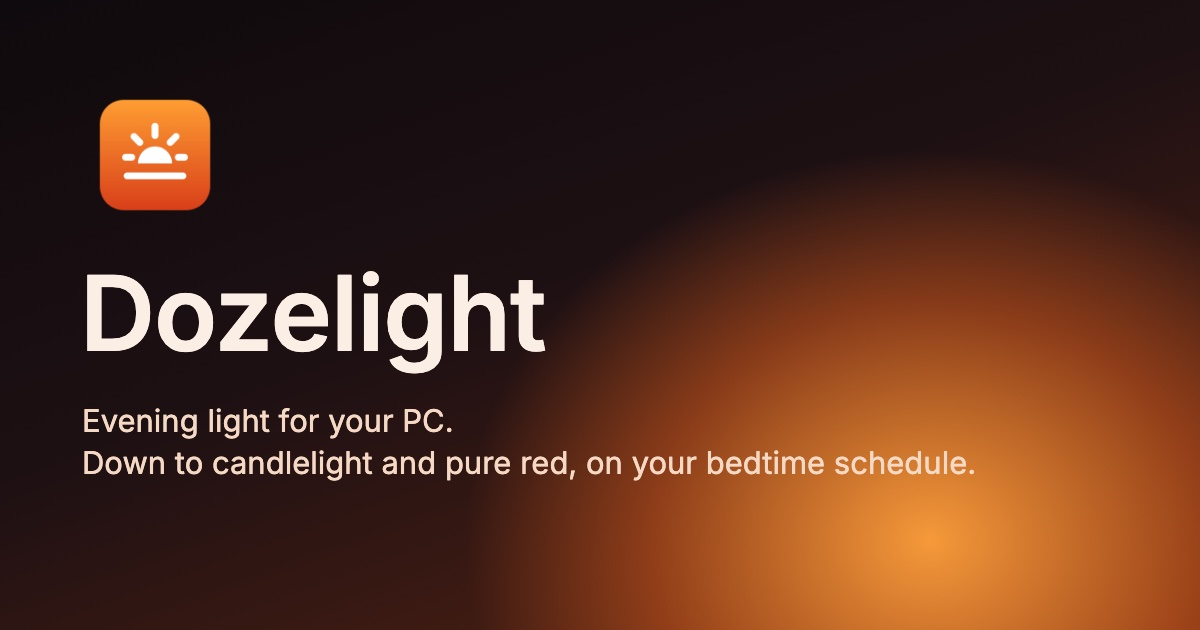
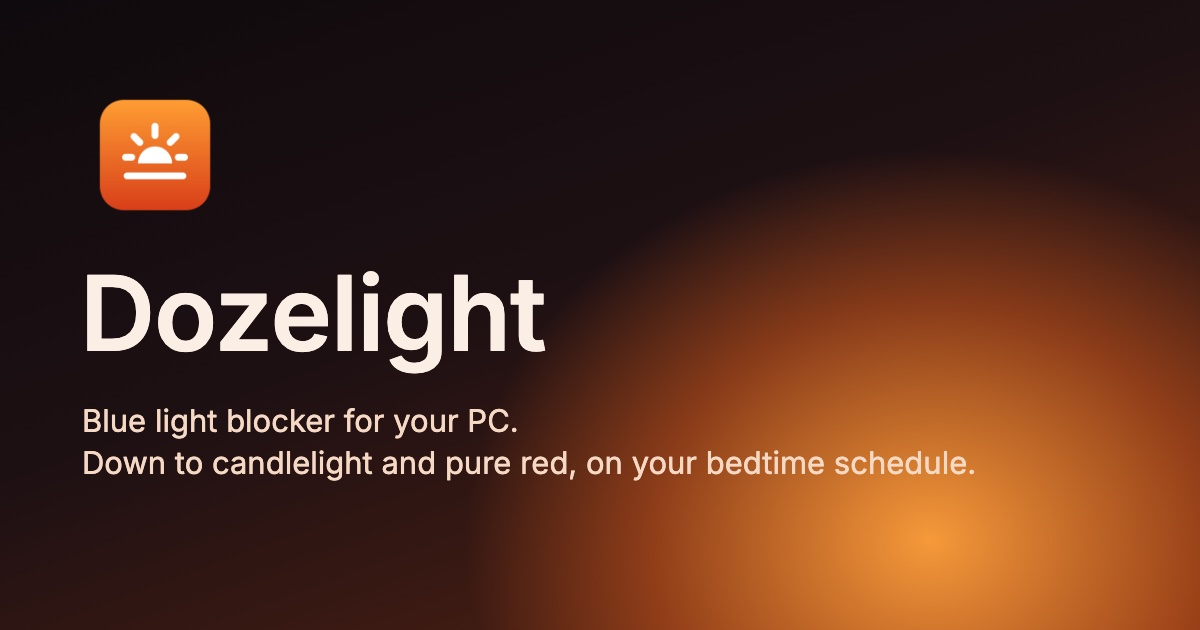
Position Dozelight as a blue light blocker

Changed region(s): [[0.0617, 0.6333, 0.4317, 0.6937]]

diff --git a/windows.html b/windows.html
@@ -3,11 +3,11 @@
 <head>
   <meta charset="utf-8">
   <meta name="viewport" content="width=device-width, initial-scale=1, viewport-fit=cover">
-  <title>Dozelight: blue light filter for Windows, warmer than Night Light</title>
-  <meta name="description" content="Dozelight is a blue light filter for Windows 10 and 11 that goes warmer than Night Light, down to candlelight and pure red, and follows your bedtime. Gentler evenings for your eyes and your sleep.">
+  <title>Dozelight: blue light blocker for Windows, warmer than Night Light</title>
+  <meta name="description" content="Dozelight is a blue light blocker for Windows 10 and 11. Night Light only reduces blue light, Dozelight blocks it completely, down to candlelight and pure red, and follows your bedtime. 14-day free trial.">
   <meta name="theme-color" content="#0d0a0b">
   <meta property="og:type" content="website">
-  <meta property="og:title" content="Dozelight: blue light filter for Windows, warmer than Night Light">
+  <meta property="og:title" content="Dozelight: blue light blocker for Windows, warmer than Night Light">
   <meta property="og:description" content="Down to candlelight and pure red, right from the taskbar. A tiny app for Windows 10 and 11, with a 14-day free trial.">
   <meta property="og:image" content="https://dozelight.github.io/assets/og-windows.jpg">
   <meta property="og:url" content="https://dozelight.github.io/windows.html">
@@ -18,8 +18,8 @@
   <link rel="stylesheet" href="style.css">
   <script src="platform.js" defer></script>
   <link rel="canonical" href="https://dozelight.github.io/windows.html">
-  <script type="application/ld+json">{"@context": "https://schema.org", "@type": "SoftwareApplication", "name": "Dozelight for Windows", "operatingSystem": "Windows 10, Windows 11", "applicationCategory": "UtilitiesApplication", "description": "Dozelight takes your Windows screen down to candlelight and pure red, warmer than Night Light, right from the taskbar. 14-day free trial.", "url": "https://dozelight.github.io/windows.html", "downloadUrl": "https://dozelight.github.io/download/Dozelight-Windows.zip", "image": "https://dozelight.github.io/assets/windows-icon.png", "offers": {"@type": "Offer", "price": "9.99", "priceCurrency": "USD", "url": "https://buy.polar.sh/polar_cl_vW1CZe0jYEofC1ECHEfeNki5Oq9OQqqWhFMfx1OUVyL"}, "publisher": {"@type": "Organization", "name": "Dozelight", "url": "https://dozelight.github.io/"}}</script>
-  <script type="application/ld+json">{"@context": "https://schema.org", "@type": "FAQPage", "mainEntity": [{"@type": "Question", "name": "How much does it cost?", "acceptedAnswer": {"@type": "Answer", "text": "$9.99, once. That's the early-access price, and it rises to $14.99 when early access ends. You can try every feature free for 14 days first."}}, {"@type": "Question", "name": "Can I use one license on my PC and my Mac?", "acceptedAnswer": {"@type": "Answer", "text": "Yes. One license works on up to 3 computers in total, Windows or Mac, so you can use it on your PC and your MacBook with the same key."}}, {"@type": "Question", "name": "What happens when the trial ends?", "acceptedAnswer": {"@type": "Answer", "text": "The tint pauses until you enter a license key. Your settings stay as they are, so everything comes back the moment you activate."}}, {"@type": "Question", "name": "Does it replace Night Light?", "acceptedAnswer": {"@type": "Answer", "text": "Yes. Dozelight goes much further than Night Light, with warmer settings, red only, a gradual bedtime schedule and filters. Turn Night Light off so the two don't compete. See Night Shift vs Night Light vs f.lux vs Dozelight and how to make your screen red at night on Windows."}}, {"@type": "Question", "name": "What are Darkroom and Extra Dim?", "acceptedAnswer": {"@type": "Answer", "text": "Darkroom inverts the screen and keeps only red, so pages turn black with red text: the gentlest way to read late at night. Extra Dim makes the screen darker than the lowest brightness setting. Both are in Filters, next to Black & White, Sepia, Invert Colors and High Contrast, and they work at any time of day."}}, {"@type": "Question", "name": "Which PCs does it run on?", "acceptedAnswer": {"@type": "Answer", "text": "Any PC with 64-bit Windows 10 or Windows 11. It also runs on Windows 11 laptops with Arm processors, through Windows' built-in emulation."}}, {"@type": "Question", "name": "Why does Windows warn me when I first open it?", "acceptedAnswer": {"@type": "Answer", "text": "Dozelight isn't signed yet, so Microsoft Defender SmartScreen asks you to confirm once. Click More info, then Run anyway. The installation guide shows each step."}}, {"@type": "Question", "name": "Why do the warmest colors need unlocking?", "acceptedAnswer": {"@type": "Answer", "text": "Windows limits how far apps can change the screen's colors. Dozelight can lift that limit once, with an administrator's approval, by setting the same Windows option other screen-tint apps use. You may need to restart Windows once afterwards."}}, {"@type": "Question", "name": "The screen doesn't change color. What can I do?", "acceptedAnswer": {"@type": "Answer", "text": "With HDR turned on, Windows ignores color changes from apps, so turn HDR off in Settings → System → Display. If you use Night Light, try turning it off so the two don't compete. Remote Desktop and virtual machines usually don't allow color changes either."}}, {"@type": "Question", "name": "Do screenshots look red?", "acceptedAnswer": {"@type": "Answer", "text": "No. The tint is applied on the way to the display, so screenshots, recordings and screen sharing keep their true colors."}}, {"@type": "Question", "name": "Does it collect any data?", "acceptedAnswer": {"@type": "Answer", "text": "No. Dozelight has no analytics or tracking. It goes online only to activate and occasionally check your license key, sending just the key and your PC's name to Polar, which runs our store, and once a day to look for updates. Dusk and dawn are estimated from your time zone, so it doesn't need your location either."}}, {"@type": "Question", "name": "Will Dozelight help me sleep better?", "acceptedAnswer": {"@type": "Answer", "text": "It takes away one thing that can push sleep later: bright, blue-rich screen light in the evening. Auto mode warms the screen gradually and keeps only red light after bedtime. Regular sleep times, winding down and a dark bedroom matter at least as much, so see our guide to screens, blue light and better sleep. Dozelight is a comfort tool, not a medical product."}}, {"@type": "Question", "name": "Is it a medical product?", "acceptedAnswer": {"@type": "Answer", "text": "No. Dozelight is a comfort tool for using your computer in the evening. It doesn't diagnose, treat or prevent any condition."}}, {"@type": "Question", "name": "How do I uninstall it?", "acceptedAnswer": {"@type": "Answer", "text": "Open the Dozelight panel, turn off Open at Login and click Quit Dozelight. Your screen goes back to normal right away. Then delete Dozelight.exe."}}, {"@type": "Question", "name": "How do I move my license to a new PC?", "acceptedAnswer": {"@type": "Answer", "text": "Open License… in the Dozelight panel on the old PC and click Deactivate This PC. You can also manage your computers in the Polar customer portal linked in your receipt."}}, {"@type": "Question", "name": "How do updates work?", "acceptedAnswer": {"@type": "Answer", "text": "Dozelight checks for a new version once a day. When there is one, it shows in the panel and installs with one click. You can also choose Settings → Check for Updates in the panel at any time. Your settings and license stay."}}, {"@type": "Question", "name": "Can I get a refund?", "acceptedAnswer": {"@type": "Answer", "text": "Yes. If Dozelight isn't right for you, email us within 14 days of your purchase for a full refund. See the refund policy."}}, {"@type": "Question", "name": "Is there an iPhone or iPad version?", "acceptedAnswer": {"@type": "Answer", "text": "iPhone and iPad don't allow apps to tint the whole screen. But they have built-in settings that come close: see our free guide to a red screen at night on iPhone and iPad."}}]}</script>
+  <script type="application/ld+json">{"@context": "https://schema.org", "@type": "SoftwareApplication", "name": "Dozelight for Windows", "operatingSystem": "Windows 10, Windows 11", "applicationCategory": "UtilitiesApplication", "description": "Dozelight is a blue light blocker for Windows 10 and 11. Night Light only reduces blue light, Dozelight blocks it completely, down to candlelight and pure red, right from the taskbar. 14-day free trial.", "url": "https://dozelight.github.io/windows.html", "downloadUrl": "https://dozelight.github.io/download/Dozelight-Windows.zip", "image": "https://dozelight.github.io/assets/windows-icon.png", "offers": {"@type": "Offer", "price": "9.99", "priceCurrency": "USD", "url": "https://buy.polar.sh/polar_cl_vW1CZe0jYEofC1ECHEfeNki5Oq9OQqqWhFMfx1OUVyL"}, "publisher": {"@type": "Organization", "name": "Dozelight", "url": "https://dozelight.github.io/"}}</script>
+  <script type="application/ld+json">{"@context": "https://schema.org", "@type": "FAQPage", "mainEntity": [{"@type": "Question", "name": "How much does it cost?", "acceptedAnswer": {"@type": "Answer", "text": "$9.99, once. That's the early-access price, and it rises to $14.99 when early access ends. You can try every feature free for 14 days first."}}, {"@type": "Question", "name": "Can I use one license on my PC and my Mac?", "acceptedAnswer": {"@type": "Answer", "text": "Yes. One license works on up to 3 computers in total, Windows or Mac, so you can use it on your PC and your MacBook with the same key."}}, {"@type": "Question", "name": "What happens when the trial ends?", "acceptedAnswer": {"@type": "Answer", "text": "The tint pauses until you enter a license key. Your settings stay as they are, so everything comes back the moment you activate."}}, {"@type": "Question", "name": "Does it replace Night Light?", "acceptedAnswer": {"@type": "Answer", "text": "Yes. Dozelight goes much further than Night Light, with warmer settings, red only, a gradual bedtime schedule and filters. Turn Night Light off so the two don't compete. See Night Shift vs Night Light vs f.lux vs Dozelight and how to make your screen red at night on Windows."}}, {"@type": "Question", "name": "What are Darkroom and Extra Dim?", "acceptedAnswer": {"@type": "Answer", "text": "Darkroom inverts the screen and keeps only red, so pages turn black with red text: the gentlest way to read late at night. Extra Dim makes the screen darker than the lowest brightness setting. Both are in Filters, next to Black & White, Sepia, Invert Colors and High Contrast, and they work at any time of day."}}, {"@type": "Question", "name": "Which PCs does it run on?", "acceptedAnswer": {"@type": "Answer", "text": "Any PC with 64-bit Windows 10 or Windows 11. It also runs on Windows 11 laptops with Arm processors, through Windows' built-in emulation."}}, {"@type": "Question", "name": "Why does Windows warn me when I first open it?", "acceptedAnswer": {"@type": "Answer", "text": "Dozelight isn't signed yet, so Microsoft Defender SmartScreen asks you to confirm once. Click More info, then Run anyway. The installation guide shows each step."}}, {"@type": "Question", "name": "Why do the warmest colors need unlocking?", "acceptedAnswer": {"@type": "Answer", "text": "Windows limits how far apps can change the screen's colors. Dozelight can lift that limit once, with an administrator's approval, by setting the same Windows option other screen-tint apps use. You may need to restart Windows once afterwards."}}, {"@type": "Question", "name": "The screen doesn't change color. What can I do?", "acceptedAnswer": {"@type": "Answer", "text": "With HDR turned on, Windows ignores color changes from apps, so turn HDR off in Settings → System → Display. If you use Night Light, try turning it off so the two don't compete. Remote Desktop and virtual machines usually don't allow color changes either."}}, {"@type": "Question", "name": "Do screenshots look red?", "acceptedAnswer": {"@type": "Answer", "text": "No. The tint is applied on the way to the display, so screenshots, recordings and screen sharing keep their true colors."}}, {"@type": "Question", "name": "Does it collect any data?", "acceptedAnswer": {"@type": "Answer", "text": "No. Dozelight has no analytics or tracking. It goes online only to activate and occasionally check your license key, sending just the key and your PC's name to Polar, which runs our store, and once a day to look for updates. Dusk and dawn are estimated from your time zone, so it doesn't need your location either."}}, {"@type": "Question", "name": "Does Dozelight block blue light completely?", "acceptedAnswer": {"@type": "Answer", "text": "Yes. At 1900K and warmer, and in Red Only, Dozelight switches the screen's blue light off completely. Milder settings reduce it, like a stronger Night Shift. Auto mode reaches 1900K at your bedtime and keeps only red light through the night."}}, {"@type": "Question", "name": "Will Dozelight help me sleep better?", "acceptedAnswer": {"@type": "Answer", "text": "It takes away one thing that can push sleep later: bright, blue-rich screen light in the evening. Auto mode warms the screen gradually and keeps only red light after bedtime. Regular sleep times, winding down and a dark bedroom matter at least as much, so see our guide to screens, blue light and better sleep. Dozelight is a comfort tool, not a medical product."}}, {"@type": "Question", "name": "Is it a medical product?", "acceptedAnswer": {"@type": "Answer", "text": "No. Dozelight is a comfort tool for using your computer in the evening. It doesn't diagnose, treat or prevent any condition."}}, {"@type": "Question", "name": "How do I uninstall it?", "acceptedAnswer": {"@type": "Answer", "text": "Open the Dozelight panel, turn off Open at Login and click Quit Dozelight. Your screen goes back to normal right away. Then delete Dozelight.exe."}}, {"@type": "Question", "name": "How do I move my license to a new PC?", "acceptedAnswer": {"@type": "Answer", "text": "Open License… in the Dozelight panel on the old PC and click Deactivate This PC. You can also manage your computers in the Polar customer portal linked in your receipt."}}, {"@type": "Question", "name": "How do updates work?", "acceptedAnswer": {"@type": "Answer", "text": "Dozelight checks for a new version once a day. When there is one, it shows in the panel and installs with one click. You can also choose Settings → Check for Updates in the panel at any time. Your settings and license stay."}}, {"@type": "Question", "name": "Can I get a refund?", "acceptedAnswer": {"@type": "Answer", "text": "Yes. If Dozelight isn't right for you, email us within 14 days of your purchase for a full refund. See the refund policy."}}, {"@type": "Question", "name": "Is there an iPhone or iPad version?", "acceptedAnswer": {"@type": "Answer", "text": "iPhone and iPad don't allow apps to tint the whole screen. But they have built-in settings that come close: see our free guide to a red screen at night on iPhone and iPad."}}]}</script>
 </head>
 <body>
   <div class="sky" aria-hidden="true"></div>
@@ -48,11 +48,11 @@
     <!-- Hero -->
     <section class="hero">
       <div class="hero-copy">
-        <p class="eyebrow"><span class="dot"></span> Early access for Windows</p>
-        <h1>Evening light<br><em>for your PC.</em></h1>
+        <p class="eyebrow"><span class="dot"></span> Blue light blocker for Windows</p>
+        <h1>Block blue light<br><em>on your PC.</em></h1>
         <p class="lede">
-          Dozelight takes your screen down to candlelight and pure red, right from the taskbar,
-          and follows your bedtime so your screen winds down with you.
+          Night Light only reduces blue light. Dozelight blocks it completely, down to candlelight
+          and pure red, right from the taskbar, and follows your bedtime so your screen winds down with you.
         </p>
         <div class="hero-actions">
           <a class="button" href="download/Dozelight-Windows.zip" download>Download free trial</a>
@@ -61,7 +61,7 @@
         <p class="hero-note">14-day free trial with every feature · Windows 10 and 11 · 64-bit</p>
         <ul class="hero-facts" aria-label="Highlights">
           <li><strong>1000K</strong><span>warmest setting</span></li>
-          <li><strong>Red only</strong><span>zero blue light</span></li>
+          <li><strong>100%</strong><span>blue light blocked</span></li>
           <li><strong>208 KB</strong><span>the whole app</span></li>
         </ul>
       </div>
@@ -332,6 +332,10 @@
       <details>
         <summary>Does it collect any data?</summary>
         <p>No. Dozelight has no analytics or tracking. It goes online only to activate and occasionally check your license key, sending just the key and your PC's name to Polar, which runs our store, and once a day to look for updates. Dusk and dawn are estimated from your time zone, so it doesn't need your location either.</p>
+      </details>
+      <details>
+        <summary>Does Dozelight block blue light completely?</summary>
+        <p>Yes. At 1900K and warmer, and in Red Only, Dozelight switches the screen's blue light off completely. Milder settings reduce it, like a stronger Night Shift. Auto mode reaches 1900K at your bedtime and keeps only red light through the night.</p>
       </details>
       <details>
         <summary>Will Dozelight help me sleep better?</summary>

diff --git a/index.html b/index.html
@@ -3,11 +3,11 @@
 <head>
   <meta charset="utf-8">
   <meta name="viewport" content="width=device-width, initial-scale=1, viewport-fit=cover">
-  <title>Dozelight: blue light filter for Mac, warmer than Night Shift</title>
-  <meta name="description" content="Dozelight is a blue light filter for Mac that goes warmer than Night Shift, down to candlelight and pure red, on your bedtime schedule. Gentler evenings for your eyes and your sleep.">
+  <title>Dozelight: blue light blocker for Mac, warmer than Night Shift</title>
+  <meta name="description" content="Dozelight is a blue light blocker for Mac. Night Shift only reduces blue light, Dozelight blocks it completely, down to candlelight and pure red, on your bedtime schedule. 14-day free trial.">
   <meta name="theme-color" content="#0d0a0b">
   <meta property="og:type" content="website">
-  <meta property="og:title" content="Dozelight: blue light filter for Mac, warmer than Night Shift">
+  <meta property="og:title" content="Dozelight: blue light blocker for Mac, warmer than Night Shift">
   <meta property="og:description" content="Down to candlelight and pure red, on your bedtime schedule. A tiny menu bar app for macOS, with a 14-day free trial.">
   <meta property="og:image" content="https://dozelight.github.io/assets/og.jpg">
   <meta property="og:url" content="https://dozelight.github.io/">
@@ -30,8 +30,8 @@
   <meta name="google-site-verification" content="awgSpBVwiy73n4SWK_MEB2o4UoAEffG2brTuxusj59I">
   <meta name="msvalidate.01" content="475B252E7EF599B6CED038FA5DAF3CCC">
   <link rel="canonical" href="https://dozelight.github.io/">
-  <script type="application/ld+json">{"@context": "https://schema.org", "@type": "SoftwareApplication", "name": "Dozelight", "operatingSystem": "macOS 13 or later", "applicationCategory": "UtilitiesApplication", "description": "Dozelight is a Mac menu bar app that takes your screen warmer than Night Shift allows, down to candlelight and pure red, and follows your bedtime. 14-day free trial.", "url": "https://dozelight.github.io/", "downloadUrl": "https://dozelight.github.io/download/Dozelight.dmg", "image": "https://dozelight.github.io/assets/icon.png", "offers": {"@type": "Offer", "price": "9.99", "priceCurrency": "USD", "url": "https://buy.polar.sh/polar_cl_vW1CZe0jYEofC1ECHEfeNki5Oq9OQqqWhFMfx1OUVyL"}, "publisher": {"@type": "Organization", "name": "Dozelight", "url": "https://dozelight.github.io/"}}</script>
-  <script type="application/ld+json">{"@context": "https://schema.org", "@type": "FAQPage", "mainEntity": [{"@type": "Question", "name": "Is there an iPhone or iPad version?", "acceptedAnswer": {"@type": "Answer", "text": "iPhone and iPad don't allow apps to tint the whole screen, so there's no Dozelight for them. But they have built-in settings that come close: see our free guide to a red screen at night on iPhone and iPad."}}, {"@type": "Question", "name": "Which Macs does it run on?", "acceptedAnswer": {"@type": "Answer", "text": "Any Mac with macOS 13 Ventura or later, Apple silicon or Intel. Touch Bar tinting works on Apple silicon MacBook Pros with a Touch Bar."}}, {"@type": "Question", "name": "Does it replace Night Shift?", "acceptedAnswer": {"@type": "Answer", "text": "It works together with it. Keep Night Shift on its usual schedule and Dozelight adds warmth on top of it. In Auto mode Dozelight follows your own bedtime, even when Night Shift is off."}}, {"@type": "Question", "name": "What are Darkroom and Extra Dim?", "acceptedAnswer": {"@type": "Answer", "text": "Darkroom inverts the screen and keeps only red, so pages turn black with red text: the gentlest way to read late at night. Extra Dim makes the screen darker than the lowest brightness setting. Both are in the Filters menu, next to Black & White, Sepia, Invert Colors and High Contrast, and they work at any time of day."}}, {"@type": "Question", "name": "Will it slow down my Mac?", "acceptedAnswer": {"@type": "Answer", "text": "No. Dozelight only does work when something changes, like Night Shift turning on or you moving a slider. When idle it uses no measurable CPU."}}, {"@type": "Question", "name": "Do screenshots and screen recordings look red?", "acceptedAnswer": {"@type": "Answer", "text": "No. The tint is applied by the display itself, so screenshots, recordings and screen sharing keep their true colors."}}, {"@type": "Question", "name": "Does it collect any data?", "acceptedAnswer": {"@type": "Answer", "text": "No. Dozelight has no analytics or tracking. It goes online only to activate and occasionally check your license key, sending just the key and your Mac's name, and once a day to look for updates. Dusk and dawn are estimated from your time zone, so it doesn't need your location either."}}, {"@type": "Question", "name": "Will Dozelight help me sleep better?", "acceptedAnswer": {"@type": "Answer", "text": "It takes away one thing that can push sleep later: bright, blue-rich screen light in the evening. Auto mode warms the screen gradually and keeps only red light after bedtime. Regular sleep times, winding down and a dark bedroom matter at least as much, so see our guide to screens, blue light and better sleep. Dozelight is a comfort tool, not a medical product."}}, {"@type": "Question", "name": "Is it a medical product?", "acceptedAnswer": {"@type": "Answer", "text": "No. Dozelight is a comfort tool for using your Mac in the evening. It doesn't diagnose, treat or prevent any condition."}}, {"@type": "Question", "name": "How much does it cost?", "acceptedAnswer": {"@type": "Answer", "text": "$9.99, once. That's the early-access price, and it rises to $14.99 when early access ends. You can try every feature free for 14 days first, and one license covers up to 3 computers, Mac or Windows."}}, {"@type": "Question", "name": "What does early access mean?", "acceptedAnswer": {"@type": "Answer", "text": "Dozelight is complete and ready for everyday use, and new features are on the way. During early access it costs less, and the people using it help decide what comes next. It also isn't notarized by Apple yet, so macOS asks you to confirm the first time you open it. Your license keeps working after early access ends, and updates keep coming automatically."}}, {"@type": "Question", "name": "What happens when the trial ends?", "acceptedAnswer": {"@type": "Answer", "text": "The tint pauses until you enter a license key. Your settings stay as they are, so everything comes back the moment you activate."}}, {"@type": "Question", "name": "How do updates work?", "acceptedAnswer": {"@type": "Answer", "text": "Dozelight checks for a new version once a day. When there is one, it shows what's new and installs it with one click. You can also choose Settings → Check for Updates… in its menu at any time."}}, {"@type": "Question", "name": "How do I move my license to a new Mac?", "acceptedAnswer": {"@type": "Answer", "text": "Open License… in Dozelight's menu on the old Mac and click Deactivate This Mac. You can also manage your Macs in the Polar customer portal linked in your receipt."}}, {"@type": "Question", "name": "Can I get a refund?", "acceptedAnswer": {"@type": "Answer", "text": "Yes. If Dozelight isn't right for you, email us within 14 days of your purchase for a full refund. See the refund policy."}}, {"@type": "Question", "name": "Why does macOS warn me when I first open it?", "acceptedAnswer": {"@type": "Answer", "text": "Dozelight isn't notarized by Apple yet, so macOS asks you to confirm once. Follow the install steps above. Future versions will be notarized."}}]}</script>
+  <script type="application/ld+json">{"@context": "https://schema.org", "@type": "SoftwareApplication", "name": "Dozelight", "operatingSystem": "macOS 13 or later", "applicationCategory": "UtilitiesApplication", "description": "Dozelight is a blue light blocker for Mac. Night Shift only reduces blue light, Dozelight blocks it completely, down to candlelight and pure red, and follows your bedtime. 14-day free trial.", "url": "https://dozelight.github.io/", "downloadUrl": "https://dozelight.github.io/download/Dozelight.dmg", "image": "https://dozelight.github.io/assets/icon.png", "offers": {"@type": "Offer", "price": "9.99", "priceCurrency": "USD", "url": "https://buy.polar.sh/polar_cl_vW1CZe0jYEofC1ECHEfeNki5Oq9OQqqWhFMfx1OUVyL"}, "publisher": {"@type": "Organization", "name": "Dozelight", "url": "https://dozelight.github.io/"}}</script>
+  <script type="application/ld+json">{"@context": "https://schema.org", "@type": "FAQPage", "mainEntity": [{"@type": "Question", "name": "Is there an iPhone or iPad version?", "acceptedAnswer": {"@type": "Answer", "text": "iPhone and iPad don't allow apps to tint the whole screen, so there's no Dozelight for them. But they have built-in settings that come close: see our free guide to a red screen at night on iPhone and iPad."}}, {"@type": "Question", "name": "Which Macs does it run on?", "acceptedAnswer": {"@type": "Answer", "text": "Any Mac with macOS 13 Ventura or later, Apple silicon or Intel. Touch Bar tinting works on Apple silicon MacBook Pros with a Touch Bar."}}, {"@type": "Question", "name": "Does it replace Night Shift?", "acceptedAnswer": {"@type": "Answer", "text": "It works together with it. Keep Night Shift on its usual schedule and Dozelight adds warmth on top of it. In Auto mode Dozelight follows your own bedtime, even when Night Shift is off."}}, {"@type": "Question", "name": "What are Darkroom and Extra Dim?", "acceptedAnswer": {"@type": "Answer", "text": "Darkroom inverts the screen and keeps only red, so pages turn black with red text: the gentlest way to read late at night. Extra Dim makes the screen darker than the lowest brightness setting. Both are in the Filters menu, next to Black & White, Sepia, Invert Colors and High Contrast, and they work at any time of day."}}, {"@type": "Question", "name": "Will it slow down my Mac?", "acceptedAnswer": {"@type": "Answer", "text": "No. Dozelight only does work when something changes, like Night Shift turning on or you moving a slider. When idle it uses no measurable CPU."}}, {"@type": "Question", "name": "Do screenshots and screen recordings look red?", "acceptedAnswer": {"@type": "Answer", "text": "No. The tint is applied by the display itself, so screenshots, recordings and screen sharing keep their true colors."}}, {"@type": "Question", "name": "Does it collect any data?", "acceptedAnswer": {"@type": "Answer", "text": "No. Dozelight has no analytics or tracking. It goes online only to activate and occasionally check your license key, sending just the key and your Mac's name, and once a day to look for updates. Dusk and dawn are estimated from your time zone, so it doesn't need your location either."}}, {"@type": "Question", "name": "Does Dozelight block blue light completely?", "acceptedAnswer": {"@type": "Answer", "text": "Yes. At 1900K and warmer, and in Red Only, Dozelight switches the screen's blue light off completely. Milder settings reduce it, like a stronger Night Shift. Auto mode reaches 1900K at your bedtime and keeps only red light through the night."}}, {"@type": "Question", "name": "Will Dozelight help me sleep better?", "acceptedAnswer": {"@type": "Answer", "text": "It takes away one thing that can push sleep later: bright, blue-rich screen light in the evening. Auto mode warms the screen gradually and keeps only red light after bedtime. Regular sleep times, winding down and a dark bedroom matter at least as much, so see our guide to screens, blue light and better sleep. Dozelight is a comfort tool, not a medical product."}}, {"@type": "Question", "name": "Is it a medical product?", "acceptedAnswer": {"@type": "Answer", "text": "No. Dozelight is a comfort tool for using your Mac in the evening. It doesn't diagnose, treat or prevent any condition."}}, {"@type": "Question", "name": "How much does it cost?", "acceptedAnswer": {"@type": "Answer", "text": "$9.99, once. That's the early-access price, and it rises to $14.99 when early access ends. You can try every feature free for 14 days first, and one license covers up to 3 computers, Mac or Windows."}}, {"@type": "Question", "name": "What does early access mean?", "acceptedAnswer": {"@type": "Answer", "text": "Dozelight is complete and ready for everyday use, and new features are on the way. During early access it costs less, and the people using it help decide what comes next. It also isn't notarized by Apple yet, so macOS asks you to confirm the first time you open it. Your license keeps working after early access ends, and updates keep coming automatically."}}, {"@type": "Question", "name": "What happens when the trial ends?", "acceptedAnswer": {"@type": "Answer", "text": "The tint pauses until you enter a license key. Your settings stay as they are, so everything comes back the moment you activate."}}, {"@type": "Question", "name": "How do updates work?", "acceptedAnswer": {"@type": "Answer", "text": "Dozelight checks for a new version once a day. When there is one, it shows what's new and installs it with one click. You can also choose Settings → Check for Updates… in its menu at any time."}}, {"@type": "Question", "name": "How do I move my license to a new Mac?", "acceptedAnswer": {"@type": "Answer", "text": "Open License… in Dozelight's menu on the old Mac and click Deactivate This Mac. You can also manage your Macs in the Polar customer portal linked in your receipt."}}, {"@type": "Question", "name": "Can I get a refund?", "acceptedAnswer": {"@type": "Answer", "text": "Yes. If Dozelight isn't right for you, email us within 14 days of your purchase for a full refund. See the refund policy."}}, {"@type": "Question", "name": "Why does macOS warn me when I first open it?", "acceptedAnswer": {"@type": "Answer", "text": "Dozelight isn't notarized by Apple yet, so macOS asks you to confirm once. Follow the install steps above. Future versions will be notarized."}}]}</script>
 </head>
 <body>
   <div class="sky" aria-hidden="true"></div>
@@ -60,11 +60,11 @@
     <!-- Hero -->
     <section class="hero">
       <div class="hero-copy">
-        <p class="eyebrow"><span class="dot"></span> Early access for macOS</p>
-        <h1>Evening light<br><em>for your Mac.</em></h1>
+        <p class="eyebrow"><span class="dot"></span> Blue light blocker for macOS</p>
+        <h1>Block blue light<br><em>on your Mac.</em></h1>
         <p class="lede">
-          Night Shift stops at 2700K. Dozelight keeps going, down to candlelight and pure red,
-          and follows your bedtime so your screen winds down with you.
+          Night Shift only reduces blue light. Dozelight blocks it completely, down to candlelight
+          and pure red, and follows your bedtime so your screen winds down with you.
         </p>
         <div class="hero-actions">
           <a class="button" href="download/Dozelight.dmg" download>Download free trial</a>
@@ -73,7 +73,7 @@
         <p class="hero-note">14-day free trial with every feature · macOS 13 or later · Apple silicon and Intel</p>
         <ul class="hero-facts" aria-label="Highlights">
           <li><strong>1000K</strong><span>warmest setting</span></li>
-          <li><strong>Red only</strong><span>zero blue light</span></li>
+          <li><strong>100%</strong><span>blue light blocked</span></li>
           <li><strong>0%</strong><span>CPU when idle</span></li>
         </ul>
       </div>
@@ -259,6 +259,7 @@
           <thead><tr><th scope="col"></th><th scope="col">Night Shift</th><th scope="col">Dozelight</th></tr></thead>
           <tbody>
             <tr><th scope="row">Warmest setting</th><td>2700K</td><td class="yes">1000K</td></tr>
+            <tr><th scope="row">Blocks blue light completely</th><td class="no">No, reduces it</td><td class="yes">Yes, from 1900K</td></tr>
             <tr><th scope="row">Red only, no blue or green</th><td class="no">No</td><td class="yes">Yes</td></tr>
             <tr><th scope="row">Gradual bedtime schedule</th><td class="no">Sunset to sunrise only</td><td class="yes">Yes</td></tr>
             <tr><th scope="row">Touch Bar</th><td class="no">Stays white</td><td class="yes">Tinted to match</td></tr>
@@ -360,6 +361,10 @@
       <details>
         <summary>Does it collect any data?</summary>
         <p>No. Dozelight has no analytics or tracking. It goes online only to activate and occasionally check your license key, sending just the key and your Mac's name, and once a day to look for updates. Dusk and dawn are estimated from your time zone, so it doesn't need your location either.</p>
+      </details>
+      <details>
+        <summary>Does Dozelight block blue light completely?</summary>
+        <p>Yes. At 1900K and warmer, and in Red Only, Dozelight switches the screen's blue light off completely. Milder settings reduce it, like a stronger Night Shift. Auto mode reaches 1900K at your bedtime and keeps only red light through the night.</p>
       </details>
       <details>
         <summary>Will Dozelight help me sleep better?</summary>

diff --git a/blue-light-filter.html b/blue-light-filter.html
@@ -3,11 +3,11 @@
 <head>
   <meta charset="utf-8">
   <meta name="viewport" content="width=device-width, initial-scale=1, viewport-fit=cover">
-  <title>Blue light filter for Mac and Windows: what it does and how to set one up</title>
-  <meta name="description" content="How a blue light filter works, how strong the built-in ones are (Night Shift and Night Light), and how to filter blue light completely in the evening on Mac and Windows.">
+  <title>Blue light blocker and filter for Mac and Windows: how to block blue light</title>
+  <meta name="description" content="How to block blue light on Mac and Windows: what the built-in filters (Night Shift and Night Light) do, and how to block blue light completely in the evening with a blue light blocker app.">
   <meta name="theme-color" content="#0d0a0b">
   <meta property="og:type" content="article">
-  <meta property="og:title" content="Blue light filter for Mac and Windows: what it does and how to set one up">
+  <meta property="og:title" content="Blue light blocker and filter for Mac and Windows: how to block blue light">
   <meta property="og:description" content="How a blue light filter works, how strong the built-in ones are (Night Shift and Night Light), and how to filter blue light completely in the evening on Mac and Windows.">
   <meta property="og:image" content="https://dozelight.github.io/assets/og.jpg">
   <meta property="og:url" content="https://dozelight.github.io/blue-light-filter.html">
@@ -18,7 +18,7 @@
   <link rel="stylesheet" href="style.css">
   <script src="platform.js" defer></script>
   <link rel="canonical" href="https://dozelight.github.io/blue-light-filter.html">
-  <script type="application/ld+json">{"@context": "https://schema.org", "@type": "FAQPage", "mainEntity": [{"@type": "Question", "name": "Do blue light filters help you sleep?", "acceptedAnswer": {"@type": "Answer", "text": "They cut the part of screen light that affects melatonin the most, which is why sleep experts often suggest them for evening screen use. Studies on filters alone show modest effects, because brightness, how late you're up and what you're doing matter too. A warm, dim screen works best as part of good sleep habits, not on its own."}}, {"@type": "Question", "name": "Is a blue light filter bad for your eyes?", "acceptedAnswer": {"@type": "Answer", "text": "No. A filter only changes the screen's colors. Colors look warmer while it's on, so turn it off for color-critical work like photo editing."}}, {"@type": "Question", "name": "Are blue light glasses better than a screen filter?", "acceptedAnswer": {"@type": "Answer", "text": "Glasses filter all the light you see, including room lights, while a screen filter only changes the screen. A screen filter is free or cheap, needs nothing on your face, and can change gradually through the evening."}}, {"@type": "Question", "name": "What's the best blue light filter for Mac?", "acceptedAnswer": {"@type": "Answer", "text": "For a mild tint, Night Shift is built in and free. To go warmer than Night Shift, down to pure red, with a gradual bedtime schedule, Dozelight adds warmth on top of Night Shift. See the full comparison, which also covers f.lux."}}]}</script>
+  <script type="application/ld+json">{"@context": "https://schema.org", "@type": "FAQPage", "mainEntity": [{"@type": "Question", "name": "What's the difference between a blue light filter and a blue light blocker?", "acceptedAnswer": {"@type": "Answer", "text": "A filter reduces blue light, like Night Shift and Night Light do. A blocker removes it completely. On a screen that means switching the blue light off, which Dozelight does at 1900K and warmer and in Red Only. Blue light blocking glasses do the same for everything you see, with amber or red lenses."}}, {"@type": "Question", "name": "Do blue light filters help you sleep?", "acceptedAnswer": {"@type": "Answer", "text": "They cut the part of screen light that affects melatonin the most, which is why sleep experts often suggest them for evening screen use. Studies on filters alone show modest effects, because brightness, how late you're up and what you're doing matter too. A warm, dim screen works best as part of good sleep habits, not on its own."}}, {"@type": "Question", "name": "Is a blue light filter bad for your eyes?", "acceptedAnswer": {"@type": "Answer", "text": "No. A filter only changes the screen's colors. Colors look warmer while it's on, so turn it off for color-critical work like photo editing."}}, {"@type": "Question", "name": "Are blue light glasses better than a screen filter?", "acceptedAnswer": {"@type": "Answer", "text": "Glasses filter all the light you see, including room lights, while a screen filter only changes the screen. A screen filter is free or cheap, needs nothing on your face, and can change gradually through the evening."}}, {"@type": "Question", "name": "What's the best blue light filter for Mac?", "acceptedAnswer": {"@type": "Answer", "text": "For a mild tint, Night Shift is built in and free. To go warmer than Night Shift, down to pure red, with a gradual bedtime schedule, Dozelight adds warmth on top of Night Shift. See the full comparison, which also covers f.lux."}}]}</script>
 </head>
 <body>
   <header class="nav scrolled">
@@ -41,8 +41,8 @@
   <main class="guide">
     <header class="guide-head">
       <p class="eyebrow">Guide for Mac and Windows</p>
-      <h1>Blue light filter for Mac and Windows.</h1>
-      <p class="answer">A <b>blue light filter</b> makes the screen warmer by turning down its blue light, usually in the evening. Macs have one built in, <b>Night Shift</b> (System Settings → Displays → Night Shift), and so does Windows, <b>Night Light</b> (Settings → System → Display → Night light). Both stop at a warm orange that still lets some blue through. To filter blue light completely, down to pure red, use an app like <b>Dozelight</b>, which also changes the filter gradually around your bedtime.</p>
+      <h1>Block blue light on Mac and Windows.</h1>
+      <p class="answer">A <b>blue light filter</b> makes the screen warmer by turning down its blue light, usually in the evening. Macs have one built in, <b>Night Shift</b> (System Settings → Displays → Night Shift), and so does Windows, <b>Night Light</b> (Settings → System → Display → Night light). Both stop at a warm orange that still lets some blue through: they reduce blue light but don't block it. To <b>block blue light completely</b>, down to pure red, use a blue light blocker app like <b>Dozelight</b>, which also changes the filter gradually around your bedtime.</p>
       <p class="fineprint">Updated 29 September 2026.</p>
     </header>
 
@@ -73,6 +73,10 @@
       </ol>
 
       <h2>Questions</h2>
+      <details>
+        <summary>What's the difference between a blue light filter and a blue light blocker?</summary>
+        <p>A filter reduces blue light, like Night Shift and Night Light do. A blocker removes it completely. On a screen that means switching the blue light off, which Dozelight does at 1900K and warmer and in Red Only. Blue light blocking glasses do the same for everything you see, with amber or red lenses.</p>
+      </details>
       <details>
         <summary>Do blue light filters help you sleep?</summary>
         <p>They cut the part of screen light that affects melatonin the most, which is why sleep experts often suggest them for evening screen use. Studies on filters alone show modest effects, because brightness, how late you're up and what you're doing matter too. A warm, dim screen works best as part of good sleep habits, not on its own.</p>

diff --git a/compare.html b/compare.html
@@ -55,6 +55,7 @@
             <tr><th scope="row">Runs on</th><td>Mac, iPhone, iPad</td><td>Windows</td><td>Mac, Windows, Linux</td><td>Mac and Windows</td></tr>
             <tr><th scope="row">Price</th><td>Free, built in</td><td>Free, built in</td><td>Free for personal use</td><td>$9.99 once, 14-day free trial</td></tr>
             <tr><th scope="row">Warmest setting</th><td>About 2700K</td><td>Warm orange</td><td>About 1200K</td><td class="yes">1000K</td></tr>
+            <tr><th scope="row">Blocks blue light completely</th><td class="no">No, reduces it</td><td class="no">No, reduces it</td><td>At its warmest settings</td><td class="yes">Yes, from 1900K and in Red Only</td></tr>
             <tr><th scope="row">Pure red, no blue or green</th><td class="no">No</td><td class="no">No</td><td>In its Darkroom mode (inverted)</td><td class="yes">Yes, with adjustable brightness</td></tr>
             <tr><th scope="row">Schedule</th><td>Sunset to sunrise, or custom hours</td><td>Sunset to sunrise, or set hours</td><td>Around sunset and your wake-up time</td><td class="yes">Gradual, around your bedtime and wake-up</td></tr>
             <tr><th scope="row">Black pages with red text</th><td class="no">No</td><td class="no">No</td><td>Yes (Darkroom)</td><td class="yes">Yes (Darkroom filter)</td></tr>
